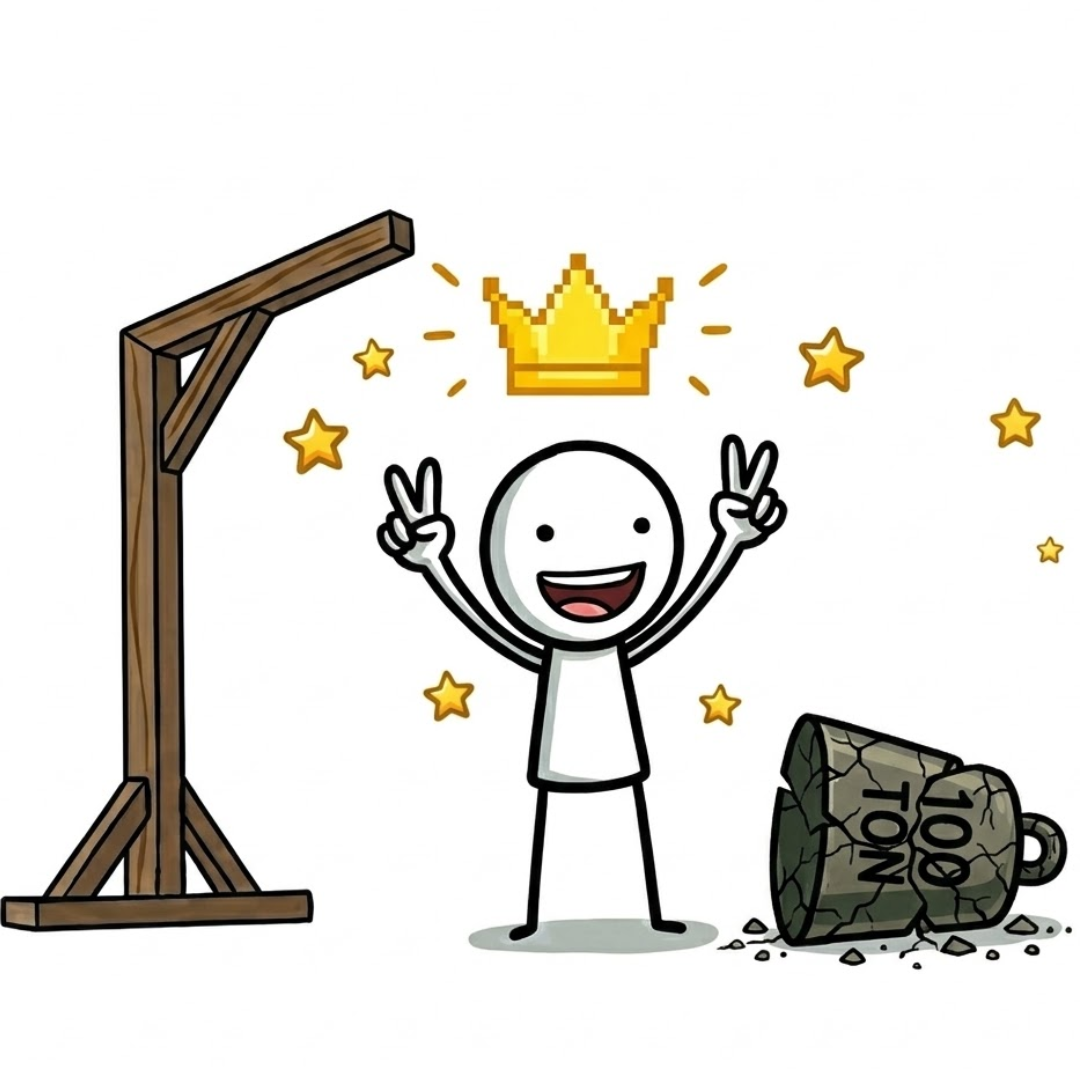
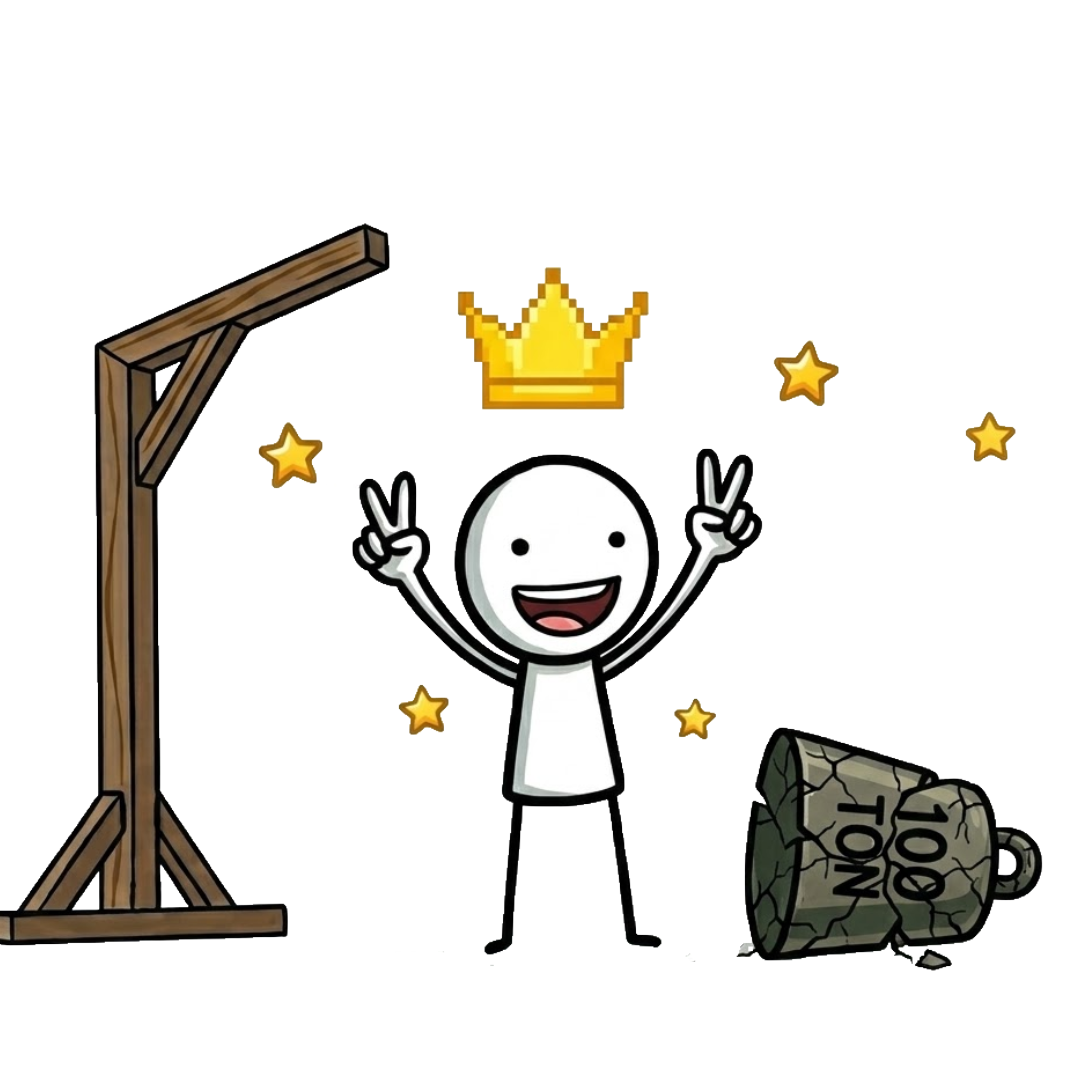
not done idk anymore

diff --git a/script.js b/script.js
@@ -155,6 +155,9 @@ function guessLetter() {
 
 // UPDATE IMAGE
 function updateImage() {
+     if (gameOver && remainingGuesses > 0) {
+        return; // Prevent overwriting the win image
+    }
     let image = "";
 
     if (remainingGuesses === 8) image = "Untitled-1.png";
@@ -195,7 +198,7 @@ function checkWin() {
         gameOver = true;
 
         const winImg = document.getElementById("stagesImg");
-        winImg.src = "Untitled-10 (3).png";
+        winImg.src = "Untitled-10.png";
 
         const gameMsg = document.getElementById("gameOverMessage");
         gameMsg.textContent = "You Win! 🎉💥";
